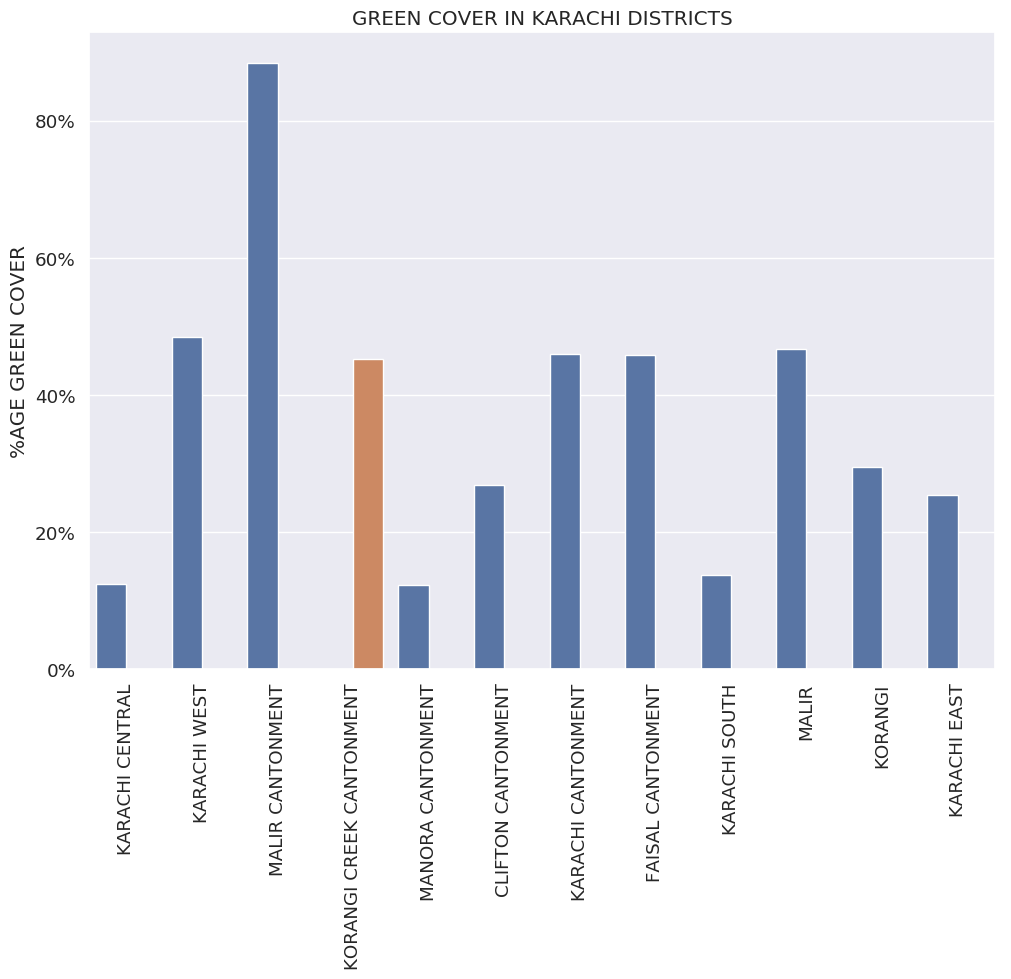
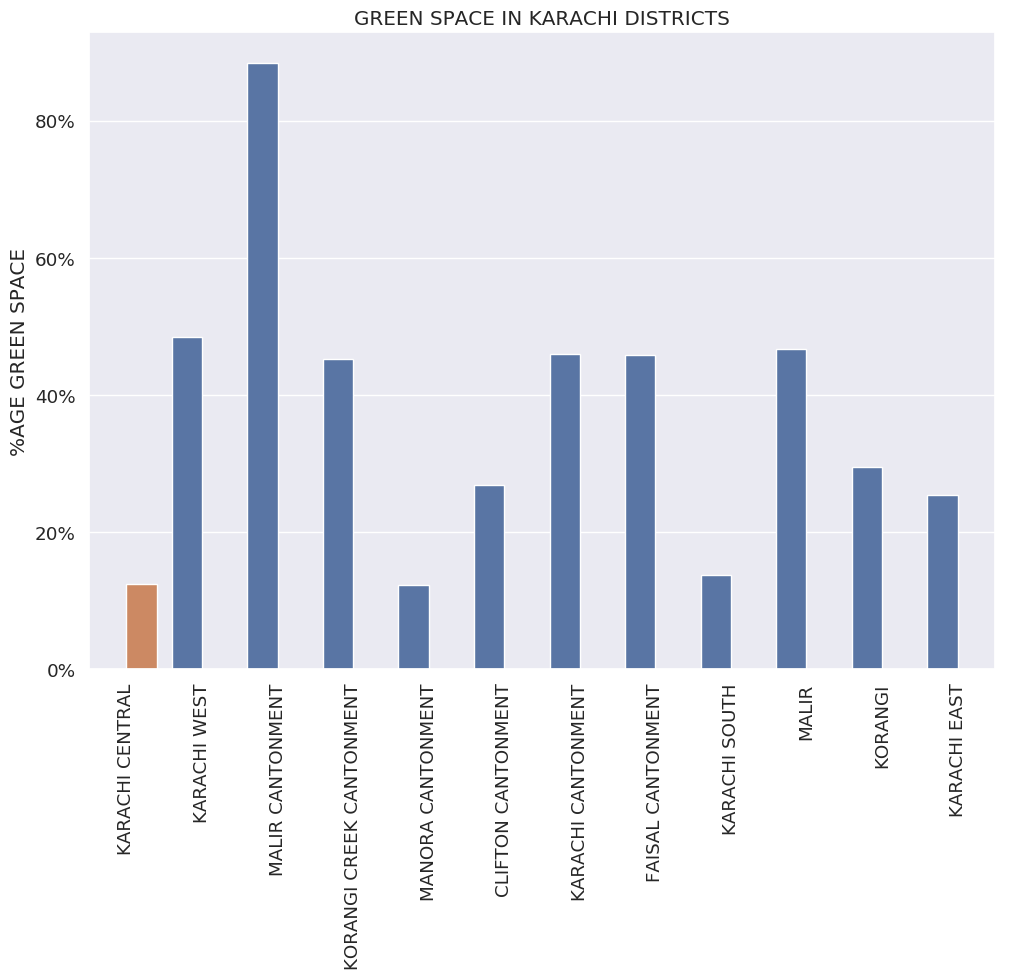
replaced cover with space

diff --git a/khifuturesplatform.py b/khifuturesplatform.py
@@ -64,11 +64,17 @@ if (navigation=='HOME'):
 
     ## How does this app work?
 
-    The normalized difference vegetation index (NDVI) is a simple graphical indicator that can be used to analyze remote sensing 
+    The Normalized Difference Vegetation Index (NDVI) is a simple graphical indicator that can be used to analyze remote sensing 
     measurements, often from a space platform, assessing whether or not the target being observed contains live green vegetation. 
     
     For this experiment, we take LANDSAT8 images from February 2019 and calculate and aggregate NDVI values for different parts
     of Karachi. All data and technology used for this experiment in open source. 
+
+    ## NDVI Range
+
+    We calculate the NDVI value of each pixel between 0 and 1, where 1 is the highest level of live green vegetation. For this experiment,
+    we have kept the threshold for classifying a pixel as green at `0.0982` as per this [research paper](https://www.researchgate.net/publication/337101410_Evaluating-Spatial-Patterns_of_Urban_Green_Spaces_in_Karachi_Through_Satellite_Remote_Sensing)
+    by the Departent of Geography at the University of Punjab published in 2016.
 
     To explore different parts of this app, please use the sidebar to the left. 
     """
@@ -119,8 +125,8 @@ if (navigation=='COMPARE DISTRICTS'):
                         data=khi_districts_gpd,
                         #color='#005b96',
                         hue='SELECTED_VAL')
-        plt.title('GREEN COVER IN KARACHI DISTRICTS')
-        plt.ylabel('%AGE GREEN COVER')
+        plt.title('GREEN SPACE IN KARACHI DISTRICTS')
+        plt.ylabel('%AGE GREEN SPACE')
         plt.xlabel('')
         plt.legend()
         ax.legend_.remove()
@@ -141,7 +147,7 @@ if (navigation=='COMPARE DISTRICTS'):
     # df['c2'] = df['c1'].apply(lambda x: 10 if x == 'Value' else x)
 
     """
-    We can also compare green cover with total area in square kilometers.
+    We can also compare green space with total area in square kilometers.
     """
     districts_to_compare = st.multiselect('Which areas do you want to compare?',
                 tuple(i for i in karachi_districts))
@@ -165,9 +171,9 @@ if (navigation=='COMPARE DISTRICTS'):
 
         #ax.legend_.remove()
 
-        plt.title('GREEN COVER IN SELECTED AREAS')
+        plt.title('GREEN SPACE IN SELECTED AREAS')
         plt.xlabel('AREA IN SQKM')
-        plt.ylabel('%AGE GREEN COVER')
+        plt.ylabel('%AGE GREEN SPACE')
 
 
         label_point(khi_districts_req.AREA_KM, khi_districts_req.REQ_NDVI_P, khi_districts_req.DISTRICT, plt.gca())  
@@ -203,8 +209,8 @@ if(navigation=='COMPARE UCs'):
     grid = karachi_uc_gpd.geometry
 
     req_df = karachi_uc_gpd[['DISTRICT','UC','REQ_NDVI_P']]
-    req_df.rename(columns={'REQ_NDVI_P':'GREEN_COVER'},inplace=True)
-    req_df['GREEN_COVER'] = req_df.GREEN_COVER.apply(lambda x: str(round(x*100,2))+"%")
+    req_df.rename(columns={'REQ_NDVI_P':'GREEN_SPACE'},inplace=True)
+    req_df['GREEN_SPACE'] = req_df.GREEN_SPACE.apply(lambda x: str(round(x*100,2))+"%")
 
     st.dataframe(req_df)
 
@@ -223,7 +229,7 @@ if(navigation=='COMPARE UCs'):
 
     tooltip = folium.features.GeoJsonTooltip(
         fields=["UC", "NDVI_PCT_LABEL"],
-        aliases=["Union Council:", "Green Cover:"],
+        aliases=["Union Council:", "Green Space:"],
         localize=True,
         sticky=False,
         labels=True,
@@ -239,7 +245,7 @@ if(navigation=='COMPARE UCs'):
 
     khi_ucs_shp = folium.GeoJson(
         karachi_uc_gpd,
-        name='GREEN_COVER',
+        name='GREEN_SPACE',
         style_function=lambda feature: {
             'fillColor': colormap_ndvi(values_all_dict[int(feature['id'])]),
             'color': 'black',
@@ -268,14 +274,14 @@ if(navigation=='COMPARE UCs'):
     layout = go.Layout(
         xaxis=dict(tickformat='%',),
         yaxis=dict(ticksuffix='km'),
-        title='Area in sq km vs Green Cover'
+        title='AREA IN SQ KM vs GREEN SPACE'
     )
 
     fig = go.Figure(data=go.Scatter(x=x_axis,y=y_axis, mode='markers',text=text_label),layout=layout)
 
     str_text = """
     <br/><br/>
-    The following interactive chart compares each UC for its green cover vs total area in sq km
+    The following interactive chart compares each UC for its green space vs total area in sq km
     """
     st.markdown(str_text,unsafe_allow_html=True)
     st.plotly_chart(fig)
@@ -300,7 +306,7 @@ if (navigation=='MY AREA'):
             poly =  row.geometry
             if(poly.contains(point_obj)==True):
                 result_dict.update({'UC':row.UC,'NDVI':row.REQ_NDVI_P})
-        output_str = "You live in `{0}` \n where `{1}` for the area has some form of green cover.".format(result_dict['UC'],
+        output_str = "You live in `{0}` \n where `{1}` for the area has some form of live green vegetation.".format(result_dict['UC'],
         str(round(result_dict['NDVI']*100,2))+"%")
         st.write(output_str)
 
@@ -321,7 +327,7 @@ if (navigation=='MY AREA'):
 
         tooltip = folium.features.GeoJsonTooltip(
             fields=["UC", "NDVI_PCT_LABEL"],
-            aliases=["Union Council:", "Green Cover:"],
+            aliases=["Union Council:", "Green Space:"],
             localize=True,
             sticky=False,
             labels=True,
@@ -337,7 +343,7 @@ if (navigation=='MY AREA'):
 
         khi_ucs_shp = folium.GeoJson(
             karachi_uc_gpd,
-            name='GREEN_COVER',
+            name='GREEN_SPACE',
             style_function=lambda feature: {
                 'fillColor': colormap_ndvi(values_all_dict[int(feature['id'])]),
                 'color': 'black',
